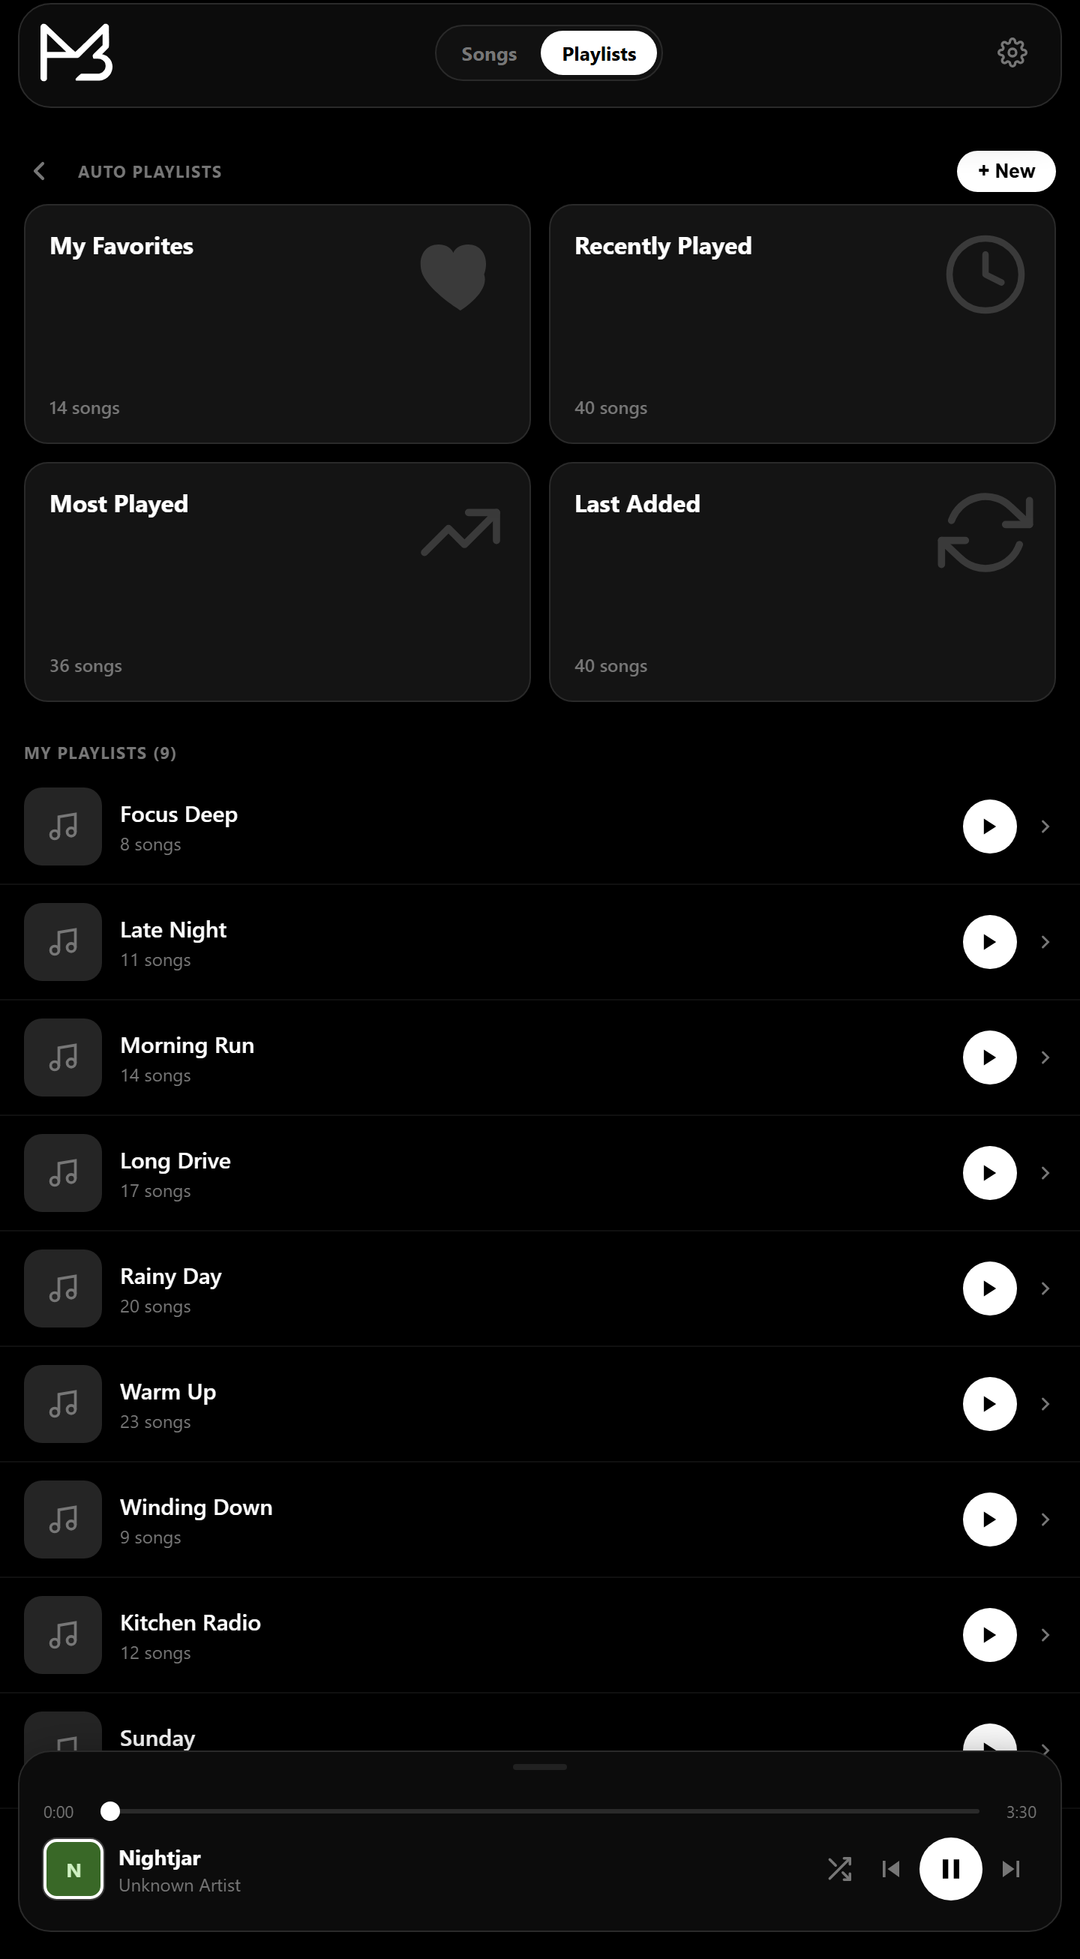
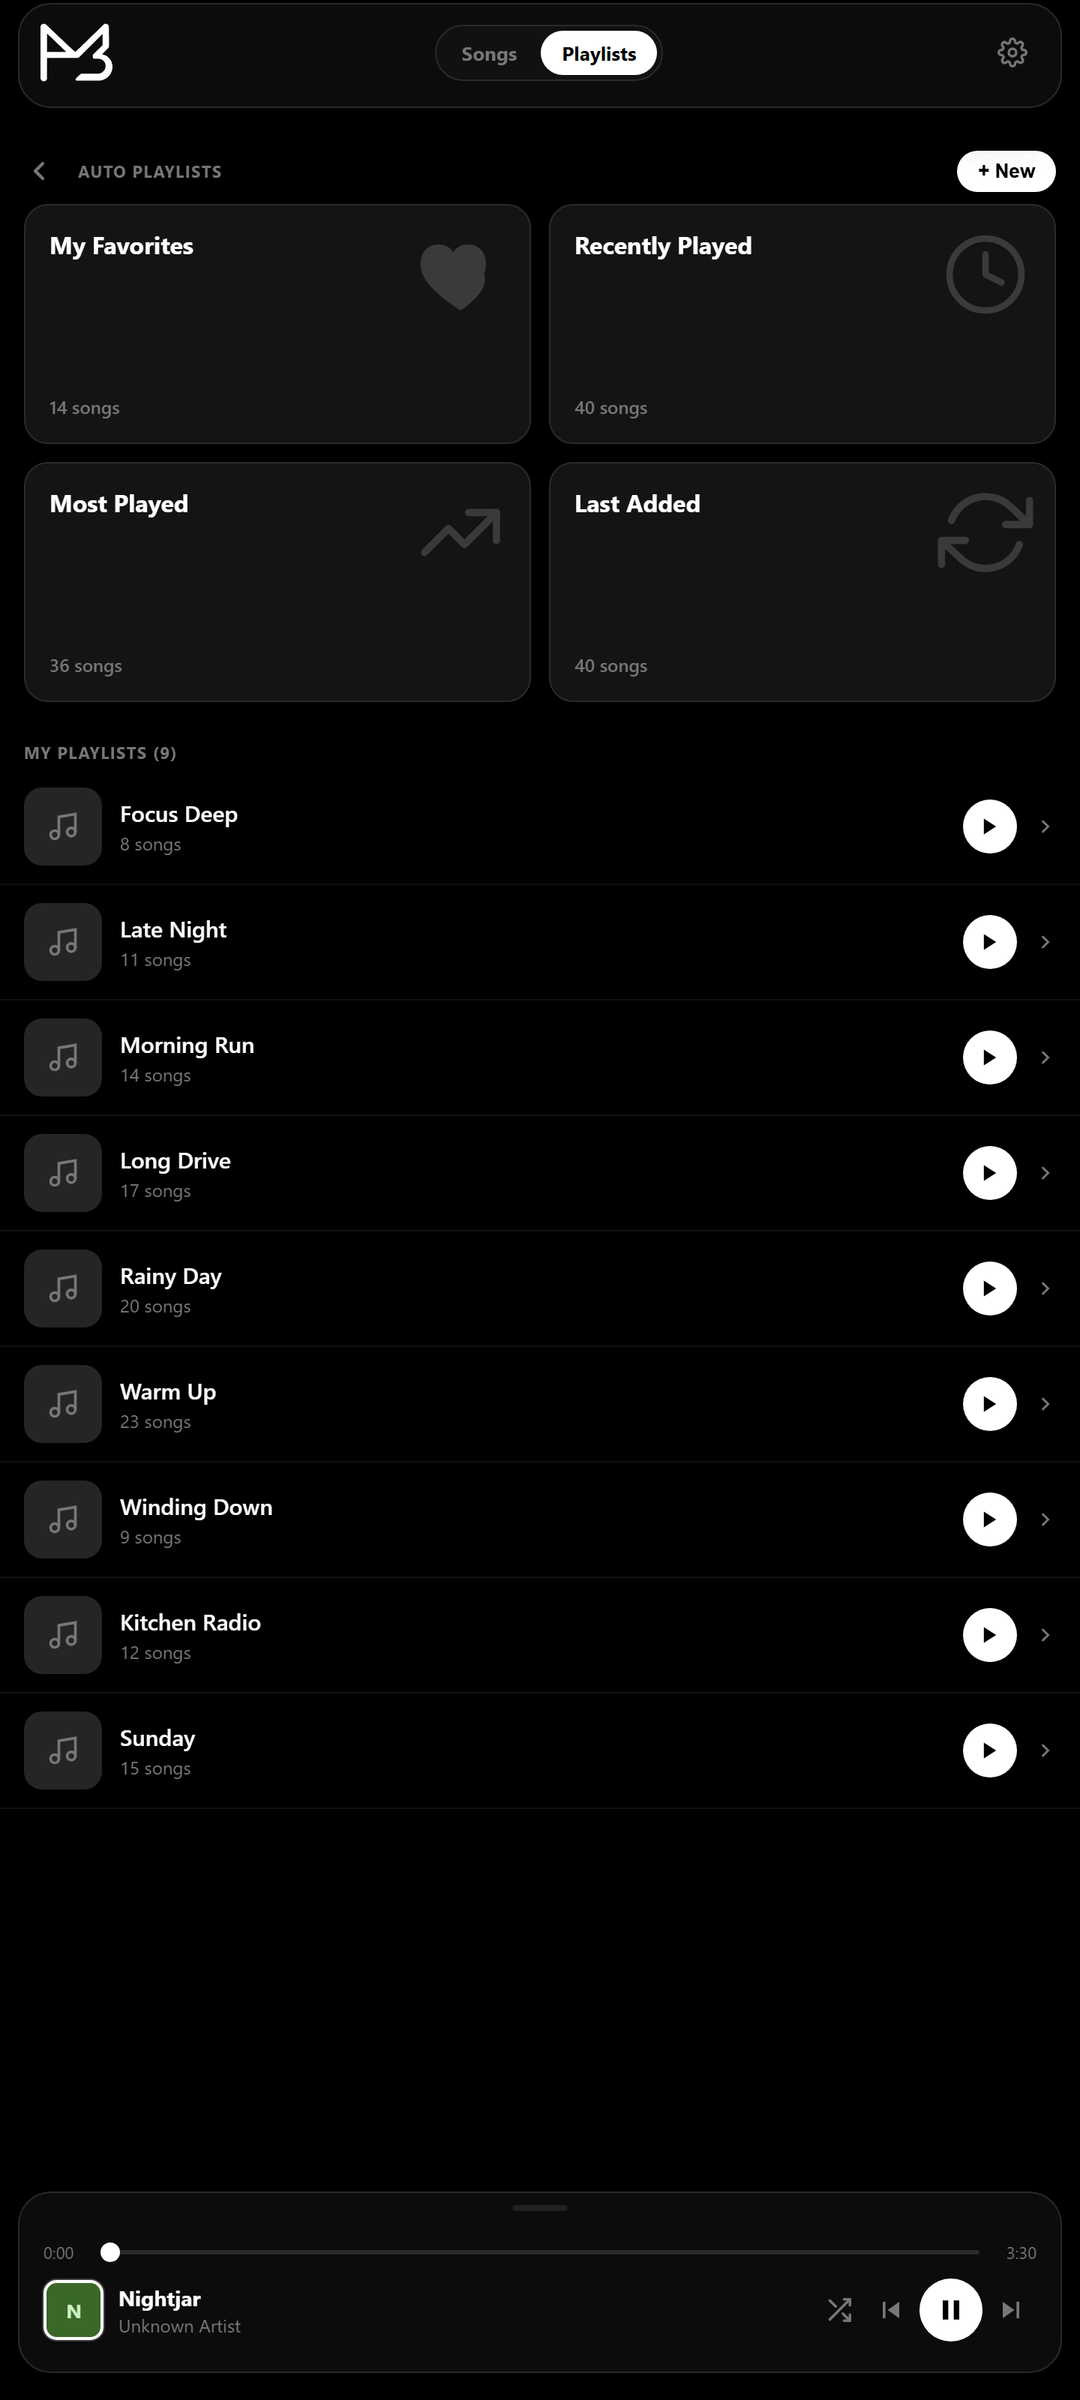
Website: give the phone mockups a real phone's proportions
The screenshots were not distorted, but the frame was 360 x 653, a ratio of
0.55 against the 0.45 of an actual Android screen. That squat, wide shape is
what read as a stretched picture. Both screens are recaptured at 360 x 800, a
real Android logical resolution, and the frame follows, so the mockups look
like phones and the interface inside still renders 1:1.

diff --git a/Website/index.html b/Website/index.html
@@ -15,18 +15,18 @@
 <meta property="og:title" content="MPTree, an offline music player">
 <meta property="og:description" content="MPTree plays the music already on your device. Nothing streams, nothing uploads.">
 <meta property="og:url" content="https://mp-tree.net/">
-<meta property="og:image" content="https://mp-tree.net/assets/img/og-image.png?v=20">
+<meta property="og:image" content="https://mp-tree.net/assets/img/og-image.png?v=21">
 <meta property="og:image:width" content="1200">
 <meta property="og:image:height" content="630">
 <meta name="twitter:card" content="summary_large_image">
-<meta name="twitter:image" content="https://mp-tree.net/assets/img/og-image.png?v=20">
+<meta name="twitter:image" content="https://mp-tree.net/assets/img/og-image.png?v=21">
 
 <link rel="icon" type="image/svg+xml" href="assets/icon/favicon.svg">
 <link rel="icon" type="image/png" sizes="32x32" href="assets/icon/favicon-32.png">
 <link rel="apple-touch-icon" href="assets/icon/apple-touch-icon-180.png">
 
-<link rel="stylesheet" href="assets/tokens.css?v=20">
-<link rel="stylesheet" href="assets/site.css?v=20">
+<link rel="stylesheet" href="assets/tokens.css?v=21">
+<link rel="stylesheet" href="assets/site.css?v=21">
 </head>
 <body>
 
@@ -56,7 +56,7 @@
 
     <div class="hero-disc" aria-hidden="true">
       <div class="disc">
-        <img src="assets/img/vinyl.webp?v=20" alt="" width="1000" height="1000">
+        <img src="assets/img/vinyl.webp?v=21" alt="" width="1000" height="1000">
       </div>
       <div class="disc-label">
         <img src="assets/img/mptree-mark-black.svg" alt="" width="26" height="26">
@@ -107,17 +107,17 @@
         <button class="phone phone-btn" id="demo-open" data-demo-open
                 aria-label="Try the demo, showing the song list">
           <div class="phone-screen">
-            <img class="phone-shot" src="assets/img/screens/songs.png?v=20"
+            <img class="phone-shot" src="assets/img/screens/songs.png?v=21"
                  alt="The MPTree song list, with a track playing in the bar at the bottom"
-                 width="1080" height="1959" loading="lazy">
+                 width="1080" height="2400" loading="lazy">
           </div>
         </button>
         <button class="phone phone-btn" data-demo-open
                 aria-label="Try the demo, showing playlists">
           <div class="phone-screen">
-            <img class="phone-shot" src="assets/img/screens/playlists.png?v=20"
+            <img class="phone-shot" src="assets/img/screens/playlists.png?v=21"
                  alt="The MPTree playlists page, with the automatic playlists above your own"
-                 width="1080" height="1959" loading="lazy">
+                 width="1080" height="2400" loading="lazy">
           </div>
         </button>
       </div>
@@ -289,8 +289,8 @@
   </div>
 </footer>
 
-<script src="assets/versions.js?v=20"></script>
-<script src="assets/releases.js?v=20" defer></script>
-<script src="assets/site.js?v=20" defer></script>
+<script src="assets/versions.js?v=21"></script>
+<script src="assets/releases.js?v=21" defer></script>
+<script src="assets/site.js?v=21" defer></script>
 </body>
 </html>

diff --git a/Website/download.html b/Website/download.html
@@ -10,16 +10,16 @@
 <meta property="og:type" content="website">
 <meta property="og:title" content="Download MPTree">
 <meta property="og:description" content="Downloading MPTree, with a short guide to installing it on Android.">
-<meta property="og:image" content="https://mp-tree.net/assets/img/og-image.png?v=20">
+<meta property="og:image" content="https://mp-tree.net/assets/img/og-image.png?v=21">
 <meta name="twitter:card" content="summary_large_image">
-<meta name="twitter:image" content="https://mp-tree.net/assets/img/og-image.png?v=20">
+<meta name="twitter:image" content="https://mp-tree.net/assets/img/og-image.png?v=21">
 
 <link rel="icon" type="image/svg+xml" href="assets/icon/favicon.svg">
 <link rel="icon" type="image/png" sizes="32x32" href="assets/icon/favicon-32.png">
 <link rel="apple-touch-icon" href="assets/icon/apple-touch-icon-180.png">
 
-<link rel="stylesheet" href="assets/tokens.css?v=20">
-<link rel="stylesheet" href="assets/site.css?v=20">
+<link rel="stylesheet" href="assets/tokens.css?v=21">
+<link rel="stylesheet" href="assets/site.css?v=21">
 </head>
 <body>
 

diff --git a/Website/assets/site.css b/Website/assets/site.css
@@ -228,12 +228,14 @@ a { color: inherit; text-decoration: none; }
   background: #000;
   padding: 9px;
 }
-/* Height comes from the capture's own ratio, so a narrow screen scales the
-   whole phone down evenly instead of cropping the shot. */
+/* 360 x 800 is a real Android screen, and the shots are captured at exactly
+   that. An earlier 360 x 653 frame was geometrically correct but far squatter
+   than any actual phone (0.55 against a real 0.45), which read as a stretched
+   picture even though nothing was distorted. */
 .phone-screen {
   background: #000;
   border-radius: 26px;
-  aspect-ratio: 360 / 653;
+  aspect-ratio: 360 / 800;
   position: relative;
   overflow: hidden;
   display: flex; flex-direction: column;

diff --git a/Website/versions.html b/Website/versions.html
@@ -12,8 +12,8 @@
 <link rel="icon" type="image/png" sizes="32x32" href="assets/icon/favicon-32.png">
 <link rel="apple-touch-icon" href="assets/icon/apple-touch-icon-180.png">
 
-<link rel="stylesheet" href="assets/tokens.css?v=20">
-<link rel="stylesheet" href="assets/site.css?v=20">
+<link rel="stylesheet" href="assets/tokens.css?v=21">
+<link rel="stylesheet" href="assets/site.css?v=21">
 </head>
 <body>
 
@@ -95,7 +95,7 @@
   </div>
 </footer>
 
-<script src="assets/versions.js?v=20"></script>
-<script src="assets/releases.js?v=20" defer></script>
+<script src="assets/versions.js?v=21"></script>
+<script src="assets/releases.js?v=21" defer></script>
 </body>
 </html>

diff --git a/Website/privacy.html b/Website/privacy.html
@@ -12,8 +12,8 @@
 <link rel="icon" type="image/png" sizes="32x32" href="assets/icon/favicon-32.png">
 <link rel="apple-touch-icon" href="assets/icon/apple-touch-icon-180.png">
 
-<link rel="stylesheet" href="assets/tokens.css?v=20">
-<link rel="stylesheet" href="assets/site.css?v=20">
+<link rel="stylesheet" href="assets/tokens.css?v=21">
+<link rel="stylesheet" href="assets/site.css?v=21">
 </head>
 <body>
 
